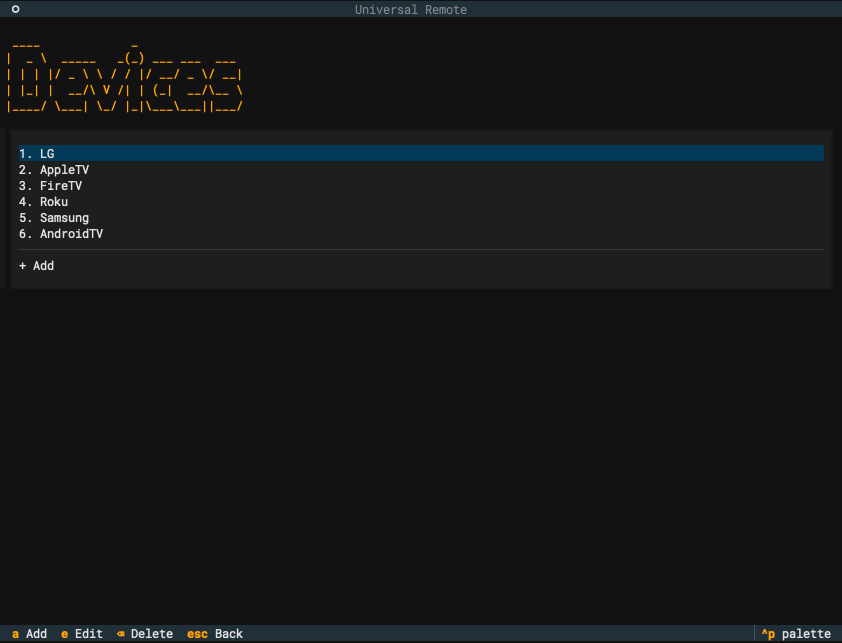
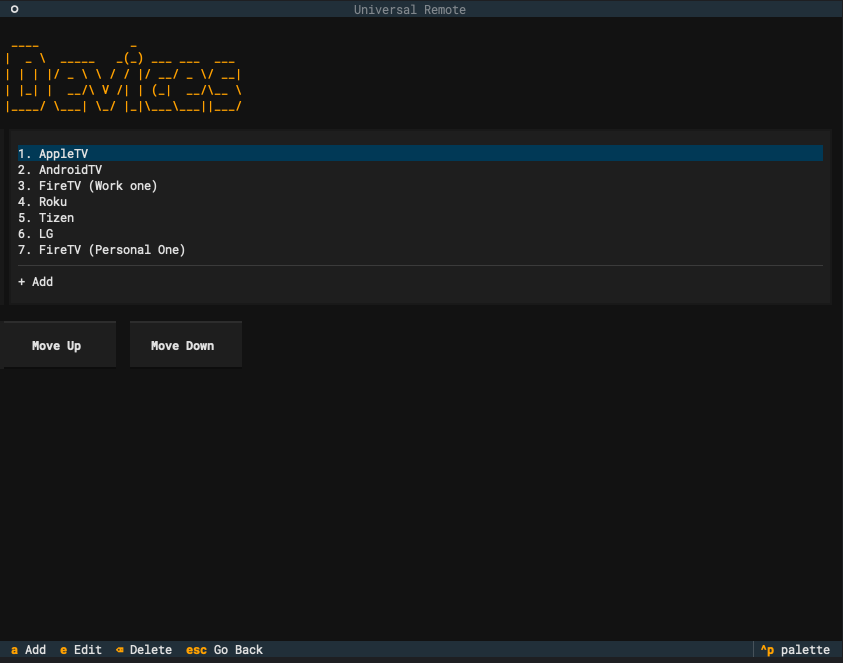
docs: show the reorder buttons in the device list screenshot
The screenshot predated the Move Up / Move Down row, and its footer
still read "esc Back" from before the shortcuts rework.

diff --git a/openspec/changes/reorder-device-list/tasks.md b/openspec/changes/reorder-device-list/tasks.md
@@ -38,11 +38,10 @@
 ## 6. Documentation
 
 - [x] 6.1 Update the README's "Manage your devices" section (README.md:79) to mention reordering by the two buttons and by `shift+up` / `shift+down`, and that the order drives the Use Remote picker and the `1`–`9` shortcuts
-- [ ] 6.2 Regenerate `docs/screenshots/device-list.png` — it shows the list without the button row
-  - **Blocked:** the twelve sibling assets are real terminal captures, and `screencapture` returns a black
-    frame here (no Screen Recording permission for this process). An `export_screenshot` SVG render would
-    not match their font or chrome. Recipe: `XDG_CONFIG_HOME=<tmp>` with a seeded six-device `devices.json`,
-    run `uv run universal-remote` in iTerm at 80x28, press `d`, capture the content area (~842px wide).
+- [x] 6.2 Regenerate `docs/screenshots/device-list.png` — it shows the list without the button row
+  - Captured by Adam from the running app (843x663, matching the sibling assets' ~842x643). This process
+    cannot do it: `screencapture` returns a black frame without Screen Recording permission, and an
+    `export_screenshot` SVG render would not match the other assets' terminal font or chrome.
 
 ## 7. Preflight
 
